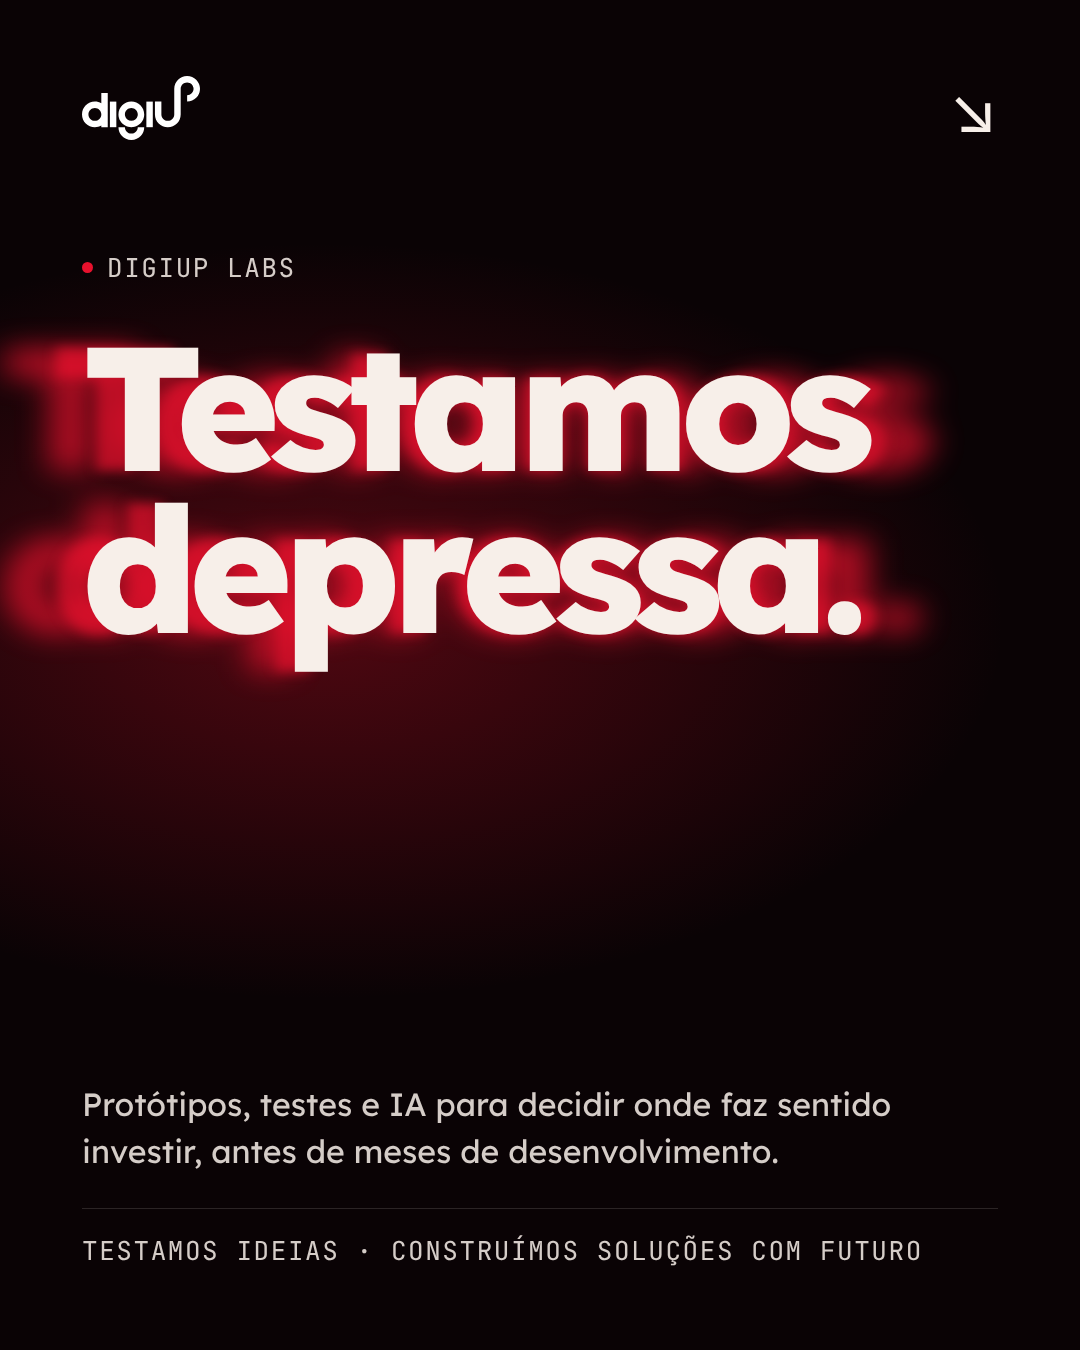
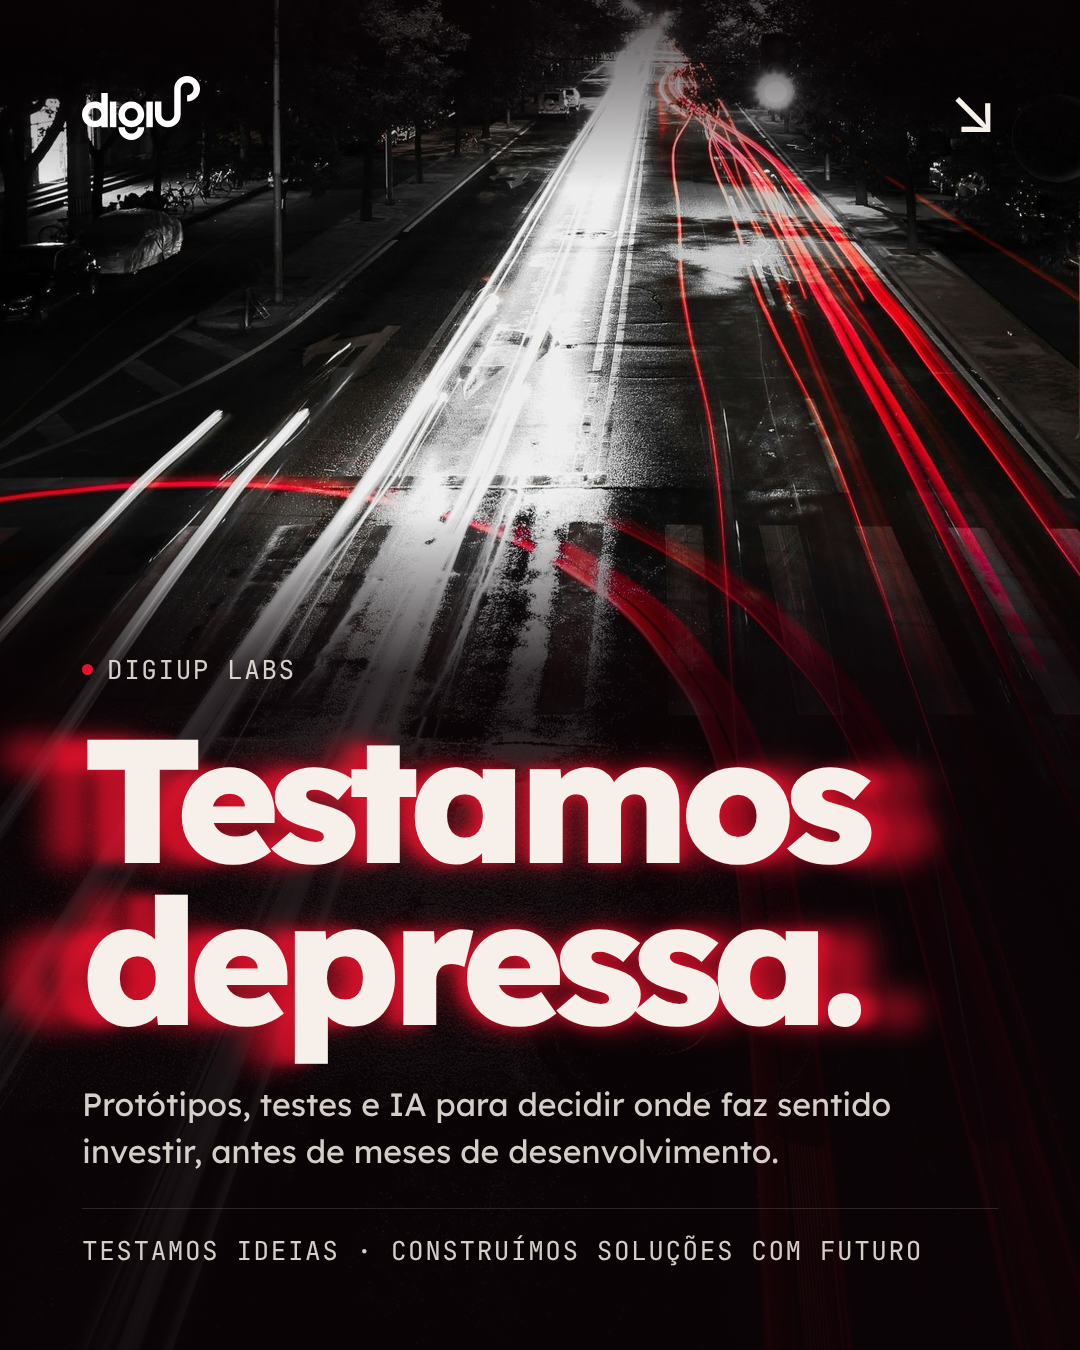
Feed: fotografia de rastos de luz no «Testamos depressa.»
Fundo com a estrada à noite e os rastos de luz branca e vermelha, o
título desce para a zona escura do asfalto e mantém o rasto de
movimento vermelho.

Claude-Session: https://claude.ai/code/session_0173GtUhSHhHFQaxLRUGv3dG

diff --git a/feed/carrossel.html b/feed/carrossel.html
@@ -127,15 +127,16 @@ body{background:#17181a;font-family:var(--du-font-sans);display:flex;flex-wrap:w
 
 <!-- 06 · escuro · tipo em movimento -->
 <section class="s dark" id="s6">
-  <div class="abs" style="inset:0;z-index:-1;background:radial-gradient(90% 40% at 30% 46%,rgba(176,14,34,.42) 0%,rgba(10,3,5,0) 70%)"></div>
+  <img class="abs" src="rastos.jpg" alt="Estrada à noite vista de cima, com rastos de luz branca à esquerda e vermelha à direita, de carros em movimento." style="inset:0;width:100%;height:100%;object-fit:cover;z-index:-2">
+  <div class="abs" style="inset:0;z-index:-1;background:linear-gradient(180deg,rgba(10,3,5,.7) 0%,rgba(10,3,5,0) 14%,rgba(10,3,5,0) 38%,rgba(10,3,5,.82) 50%,rgba(10,3,5,.9) 62%,rgba(10,3,5,.95) 100%)"></div>
   <div class="top"><img src="digiup-white.svg" alt="digiUP"><span class="arrow" aria-hidden="true">↘</span></div>
-  <div class="mono up" style="margin-top:110px"><span class="dot"></span>digiUP Labs</div>
-  <div style="position:relative;margin-top:40px">
+  <div class="mono up" style="margin-top:auto"><span class="dot"></span>digiUP Labs</div>
+  <div style="position:relative;margin-top:30px">
     <div aria-hidden="true" class="giant" style="position:absolute;left:0;top:0;font-size:176px;color:#e8112d;filter:blur(14px);transform:scaleX(1.18) translateX(-70px);opacity:.75;transform-origin:left">Testamos<br>depressa.</div>
     <div aria-hidden="true" class="giant" style="position:absolute;left:0;top:0;font-size:176px;color:#e8112d;filter:blur(6px);transform:scaleX(1.06) translateX(-30px);opacity:.7;transform-origin:left">Testamos<br>depressa.</div>
     <div class="giant" style="position:relative;font-size:176px">Testamos<br>depressa.</div>
   </div>
-  <p class="body" style="margin-top:auto;max-width:860px">Protótipos, testes e IA para decidir onde faz sentido investir, antes de meses de desenvolvimento.</p>
+  <p class="body" style="margin-top:40px;max-width:860px">Protótipos, testes e IA para decidir onde faz sentido investir, antes de meses de desenvolvimento.</p>
   <div class="mono up" style="margin-top:34px;padding-top:24px;border-top:1px solid var(--du-cream-14)">Testamos ideias · Construímos soluções com futuro</div>
 </section>
 
